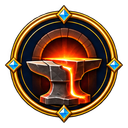
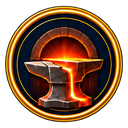
[Codex] feat: 加大純圓框圖示並套用紅藍火焰威能

diff --git a/index.html b/index.html
@@ -8,7 +8,7 @@
   <link rel="icon" href="images/icon_avatar.png" type="image/png">
   <link rel="stylesheet" href="css/style.css?v=1.0.75">
   <link rel="stylesheet" href="css/inventory-offset.css">
-  <link rel="stylesheet" href="css/ashen-forge.css?v=1.0.60">
+  <link rel="stylesheet" href="css/ashen-forge.css?v=1.0.61">
   <link rel="stylesheet" href="css/ashen-forge-flat.css?v=1.0.3">
   <link rel="stylesheet" href="css/battle-hud.css?v=1.0.6">
   <link rel="stylesheet" href="css/runeword.css?v=1.0.6">
@@ -83,16 +83,16 @@
           <span id="rail-level" class="rail-level">Lv.1</span>
           <span class="rail-xp"><span id="rail-xp-fill"></span></span>
         </div>
-        <button class="tab-btn" data-tab="char"><span class="af-nav-icon" aria-hidden="true"><img src="images/ui/enamel-nav/char.png?v=20261014-clean" alt="" width="128" height="128" draggable="false"></span>角色</button>
-        <button class="tab-btn active" data-tab="equip"><span class="af-nav-icon" aria-hidden="true"><img src="images/ui/enamel-nav/equip.png?v=20261014-clean" alt="" width="128" height="128" draggable="false"></span>裝備</button>
-        <button class="tab-btn" data-tab="skills"><span class="af-nav-icon" aria-hidden="true"><img src="images/ui/enamel-nav/skills.png?v=20261014-clean" alt="" width="128" height="128" draggable="false"></span>技能</button>
-        <button class="tab-btn" data-tab="newforge"><span class="af-nav-icon" aria-hidden="true"><img src="images/ui/enamel-nav/newforge.png?v=20261014-clean" alt="" width="128" height="128" draggable="false"></span>熔爐</button>
-        <button class="tab-btn" data-tab="gems"><span class="af-nav-icon" aria-hidden="true"><img src="images/ui/enamel-nav/gems.png?v=20261014-clean" alt="" width="128" height="128" draggable="false"></span>寶石</button>
-        <button class="tab-btn" data-tab="runes"><span class="af-nav-icon" aria-hidden="true"><img src="images/ui/enamel-nav/runes.png?v=20261014-clean" alt="" width="128" height="128" draggable="false"></span>符文</button>
-        <button class="tab-btn" data-tab="tower"><span class="af-nav-icon" aria-hidden="true"><img src="images/ui/enamel-nav/tower.png?v=20261014-clean" alt="" width="128" height="128" draggable="false"></span>封魔塔</button>
-        <button class="tab-btn" data-tab="talents"><span class="af-nav-icon" aria-hidden="true"><img src="images/ui/enamel-nav/talents.png?v=20261014-clean" alt="" width="128" height="128" draggable="false"></span>威能</button>
-        <button class="tab-btn" data-tab="forge" style="display:none"><span class="af-nav-icon" aria-hidden="true"><img src="images/ui/enamel-nav/forge.png?v=20261014-clean" alt="" width="128" height="128" draggable="false"></span>神鑄<span id="forge-run-ind" class="forge-run-ind" style="display:none"></span></button>
-        <button class="tab-btn" data-tab="settings"><span class="af-nav-icon" aria-hidden="true"><img src="images/ui/enamel-nav/settings.png?v=20261014-clean" alt="" width="128" height="128" draggable="false"></span>設定</button>
+        <button class="tab-btn" data-tab="char"><span class="af-nav-icon" aria-hidden="true"><img src="images/ui/enamel-nav/char.png?v=20261014-round" alt="" width="128" height="128" draggable="false"></span>角色</button>
+        <button class="tab-btn active" data-tab="equip"><span class="af-nav-icon" aria-hidden="true"><img src="images/ui/enamel-nav/equip.png?v=20261014-round" alt="" width="128" height="128" draggable="false"></span>裝備</button>
+        <button class="tab-btn" data-tab="skills"><span class="af-nav-icon" aria-hidden="true"><img src="images/ui/enamel-nav/skills.png?v=20261014-round" alt="" width="128" height="128" draggable="false"></span>技能</button>
+        <button class="tab-btn" data-tab="newforge"><span class="af-nav-icon" aria-hidden="true"><img src="images/ui/enamel-nav/newforge.png?v=20261014-round" alt="" width="128" height="128" draggable="false"></span>熔爐</button>
+        <button class="tab-btn" data-tab="gems"><span class="af-nav-icon" aria-hidden="true"><img src="images/ui/enamel-nav/gems.png?v=20261014-round" alt="" width="128" height="128" draggable="false"></span>寶石</button>
+        <button class="tab-btn" data-tab="runes"><span class="af-nav-icon" aria-hidden="true"><img src="images/ui/enamel-nav/runes.png?v=20261014-round" alt="" width="128" height="128" draggable="false"></span>符文</button>
+        <button class="tab-btn" data-tab="tower"><span class="af-nav-icon" aria-hidden="true"><img src="images/ui/enamel-nav/tower.png?v=20261014-round" alt="" width="128" height="128" draggable="false"></span>封魔塔</button>
+        <button class="tab-btn" data-tab="talents"><span class="af-nav-icon" aria-hidden="true"><img src="images/ui/enamel-nav/talents.png?v=20261014-round" alt="" width="128" height="128" draggable="false"></span>威能</button>
+        <button class="tab-btn" data-tab="forge" style="display:none"><span class="af-nav-icon" aria-hidden="true"><img src="images/ui/enamel-nav/forge.png?v=20261014-round" alt="" width="128" height="128" draggable="false"></span>神鑄<span id="forge-run-ind" class="forge-run-ind" style="display:none"></span></button>
+        <button class="tab-btn" data-tab="settings"><span class="af-nav-icon" aria-hidden="true"><img src="images/ui/enamel-nav/settings.png?v=20261014-round" alt="" width="128" height="128" draggable="false"></span>設定</button>
       </nav>
 
       <main>

diff --git a/css/ashen-forge.css b/css/ashen-forge.css
@@ -2139,12 +2139,23 @@ html *::-webkit-scrollbar-corner {
 }
 
 #workspace-area #tabs .af-nav-icon {
+  position: relative;
   display: block;
-  width: 38px;
-  height: 38px;
+  width: 41.8px;
+  height: 41.8px;
   margin: 0;
   flex: 0 0 auto;
   line-height: 0;
+}
+
+/* 素材留白約4%，在圓框外緣追加固定1px金邊，不新增角飾或亮點。 */
+#workspace-area #tabs .af-nav-icon::after {
+  content: "";
+  position: absolute;
+  inset: calc(4% - 1px);
+  border: 1px solid #d3ab55;
+  border-radius: 50%;
+  pointer-events: none;
 }
 
 #workspace-area #tabs .af-nav-icon img {

diff --git a/docs/AI_TASKS.md b/docs/AI_TASKS.md
@@ -1,5 +1,18 @@
 # AI_TASKS.md
 
+## ENAMEL-NAV-RIM-20261014 — 移除外圈亮點、加厚圓框並放大圖示
+
+- Owner：Codex；Done。使用者要求十圖外圈四個亮點全部刪除、框厚增加1px、圖示放大10%；另要求威能兩個提案，最後附圖核定第3版紅藍雙色火焰＋金色晶核接入，以最後附圖為準。前置為既有清理版，單一開發者，後續使用者審閱整合。
+- 允許：十張images/ui/enamel-nav圖示、css/ashen-forge.css導覽圖示尺寸與圓框、index.html圖檔／CSS快取、tools/enamel-nav/export-source.cjs獨立來源接線、本紀錄；素材庫codex-authored/enamel-nav母圖／匯出／來源／提示詞。禁止改頁籤事件、解鎖、規則、存檔與其他副本；不合併／推送。兩庫原乾淨，以上遊戲路徑（含補查匯出工具）預檢無其他副本／分支衝突。
+- 驗收：每個金色圓框均平順無四方尖端／亮點，主體維持清理版；圖示CSS38→41.8px（+10%），圓框以CSS1px金邊追加，保留文字與按鈕互動；透明／SHA／Build／既有UI測試、瀏覽器尺寸及破圖／Console驗證後，先素材庫再遊戲Commit。使用imagegen修整既有原創母圖，沿既有匯出裁切流程；Mote像素編修不適合整組細緻母圖的無痕修整。
+- 完成／修改14檔：十張images/ui/enamel-nav圖示全部去除外圈12／3／6／9點鐘的鑽形角飾與金尖端，外緣為完整圓形；威能換為核定紅藍火焰＋金色晶核。css/ashen-forge.css圖示38→41.8px，於素材外緣以::after追加1px連續金邊，pointer-events:none保留互動；不增加按鈕邊框厚度。index.html十圖快取20261014-round、CSS1.0.60→1.0.61；匯出工具與本紀錄同步。未改頁籤文字／排列／事件／解鎖／存檔。
+- 素材：內建imagegen原創修整整組母圖，另產威能兩提案並依使用者最後附圖選紅藍火焰金色晶核。未將附圖棋盤背景／浮水印匯入素材。素材庫originals/badges.png、獨立originals/talents.png、十圖、SOURCE／PROMPTS-ROUND／PROMPTS-TALENTS及exports.json同步，先提交52810af。未選提案及改色候選只留聊天生成目錄，不納入正式素材；既有核定概念圖保留，舊圖可由Git歷史恢復。十圖128×128真透明、總343490 bytes，遊戲與素材及紀錄SHA一致，沒有第三方美術。
+- 獨立來源：tools/enamel-nav/export-source.cjs優先讀素材庫originals/<name>.png（有則使用，否則沿整組母圖）；匯出紀錄保存獨立來源SHA，--check遇母圖改動或新增來源但未重匯出會拒絕。獨立威能不再因--make-icons回退為整組中的舊圖案；仍只標準裁切、等比縮小與透明留白，不程序重畫。
+- 驗證：node tools/enamel-nav/export-source.cjs --make-icons／--apply／--check全過；node --check tools/enamel-nav/export-source.cjs通過；node --test tests/sidebar-layout.test.cjs tests/init-ui-smoke.test.cjs，3/3通過；npm.cmd run build，503檔全過；兩庫git diff --check通過。隔離暫存素材庫重播整組＋獨立威能來源，十圖及裁切／來源SHA紀錄逐位元一致；改動暫存威能母圖後--check正確拒絕過期匯出。測試副本逐檔清理，未改正式來源來測試。
+- 瀏覽器：隔離localhost新角色、正式UI／Worker／Pixi，不讀真人存檔。十圖全載入128px新快取，CSS尺寸41.7969px（41.8的排版像素取整）、圓邊1px；可見圖示全在按鈕範圍內，無裁切／側欄橫向溢出，設定→角色切換正常；神鑄仍依原規則隱藏，Console error／warning 0。獨立十圖外觀預覽使用正式CSS的圖示／圓邊並顯示全部十圖，與真遊戲未解鎖狀態分開；威能192／64／41.8px檢視，紅藍與金色晶核可辨。截圖在本聊天visualizations/enamel-round-final.png及enamel-round-game.png。臨時頁面／服務關閉，腳本／測試副本已清理。
+- 未修改但檢查：AI規範、原始整組與威能候選、既有exports／SOURCE、tools/vfx/vfx-library-root.cjs、tests/sidebar-layout.test.cjs／init-ui-smoke.test.cjs及index的其餘UI標記。正式參數／Worker／存檔未變。
+- 交付：遊戲Commit為本紀錄所在[Codex] feat提交；素材Commit52810af。無本次未完成項或已知新增風險，可供審查合併，未合併／推送。限制：未跑全庫回歸或真人存檔長時間驗收；威能未解鎖時只驗證已載入素材，完整外觀另用隔離十圖預覽。下一步使用者整合後重載遊戲。
+
 ## ENAMEL-NAV-CLEANUP-20261014 — 清理十個功能徽章的細碎裝飾
 
 - Owner：Codex；Done，單一開發者。使用者指出64×64小尺寸的雕飾／內圈細線／光點使圖示顯髒，要求全部圖案簡化，不只處理紅圈示例，隨後確認接入遊戲。前置為既有ENAMEL-NAV，後續交使用者審閱整合。
